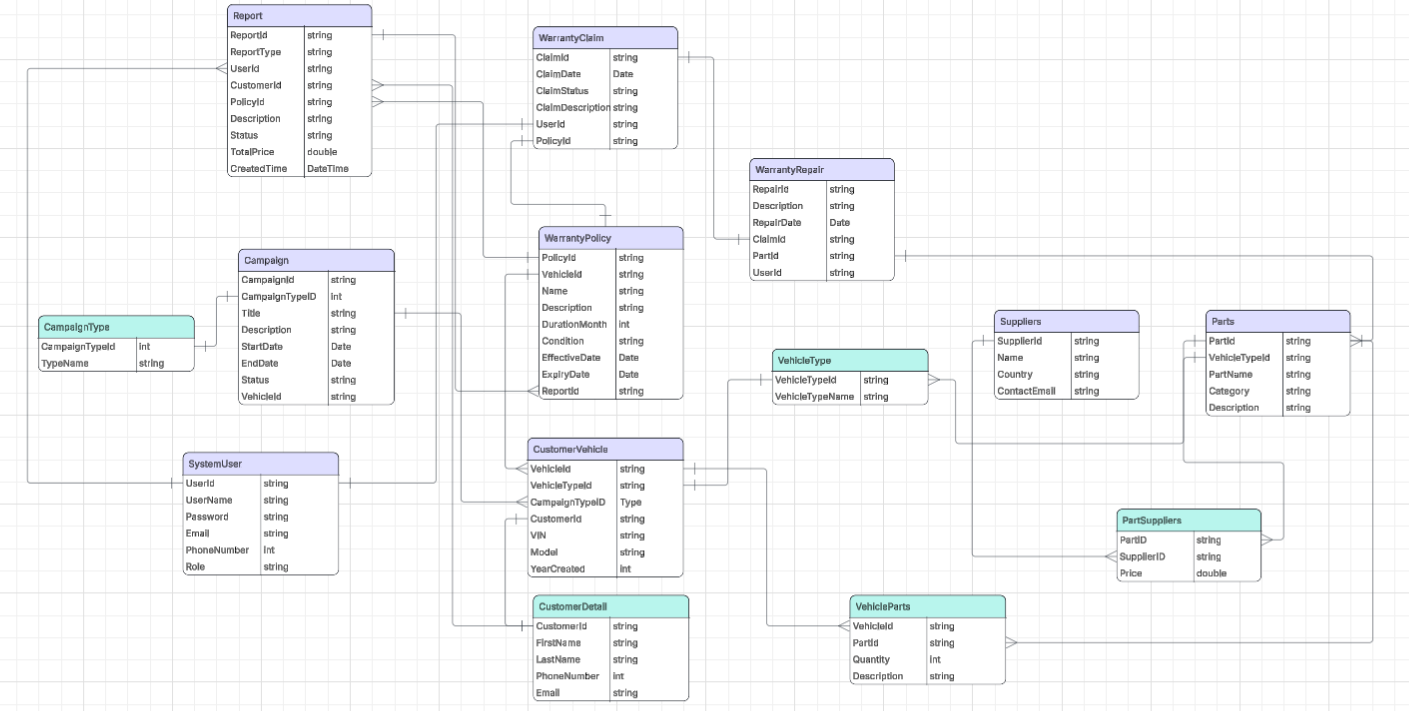
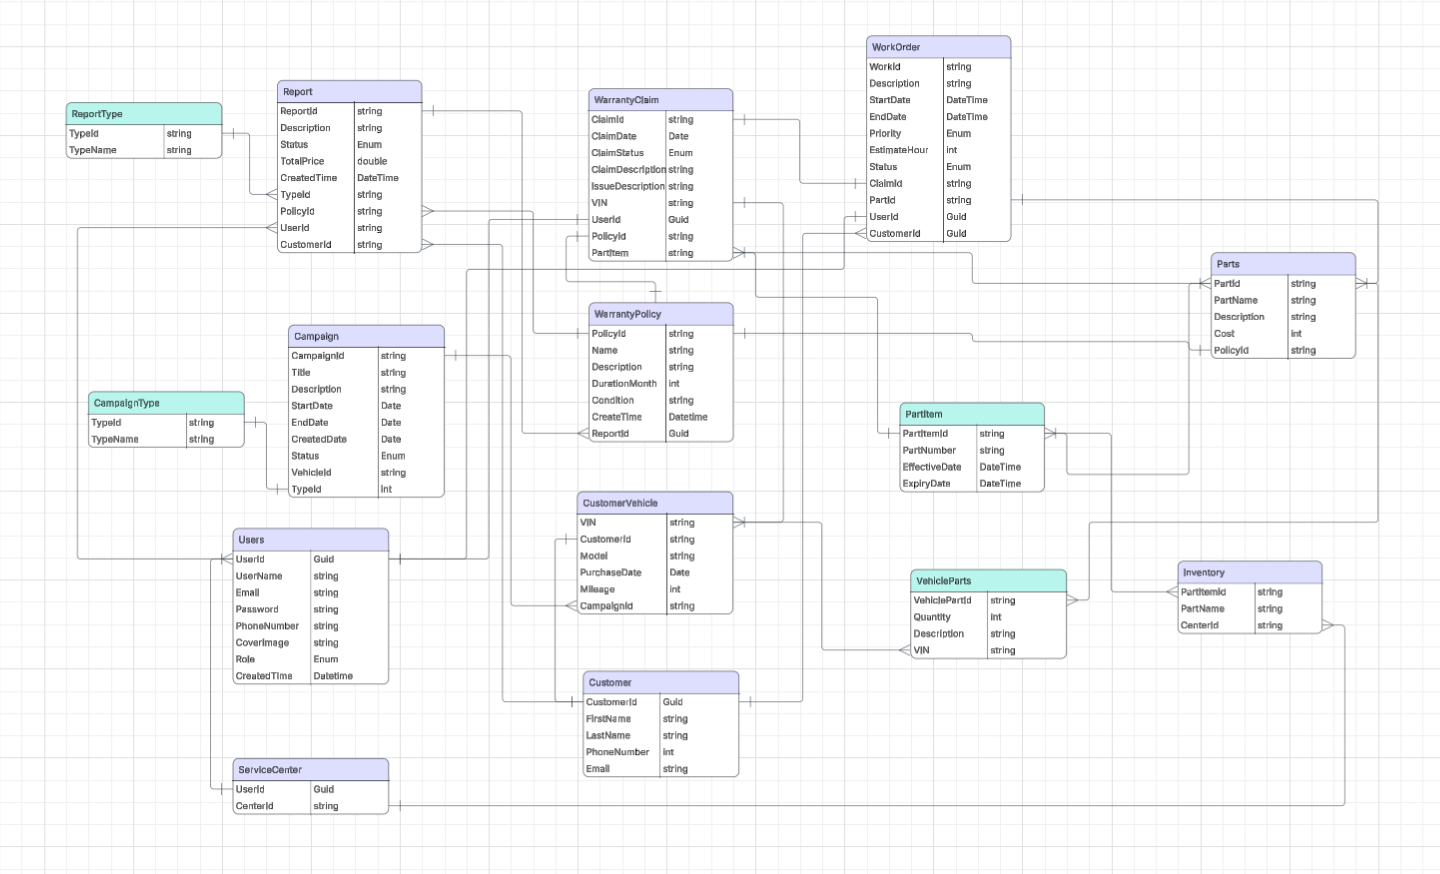
Update

diff --git a/profile/README.md b/profile/README.md
@@ -117,37 +117,38 @@ We will focus on the following set of requirements while designing:
 13. Sc Staff should be able to list all work reports by priority (High, Medium, Low).
 14. Sc Staff should be able to search work reports by orderID/VehicleName.
 15. Sc Staff should be able to see no result model if no search result found.
-16. Sc Staff should be able to view monthly revenue for the services in the center.
-17. Sc Staff should be able to list all work history/revenue by OrderId/VehicleName
-18. Sc Staff should be able to see warranty cost detail of an order.
-19. Sc Staff should be able to approved and export report cost of an completed work order.
-20. Sc Staff should be able to see their basic profile information.
+16. Sc Staff should be able to list all work history/revenue by OrderId/VehicleName
+17. Sc Staff should be able to see warranty cost detail of an order.
+18. Sc Staff should be able to approved and export report cost of an completed work order.
+19. Sc Staff should be able to see their basic profile information.
 
 ##### For EVM Staff:
 1. EVM Staff should be able to login into system.
 2. EVM Staff should be able to reset password by sending a request password change to admin.
+3. EVM Staff should be able to view monthly revenue for the services in the center.
 
 ## Flow Diagram
 <img src="./Resources/Main_Flow.png" alt="Main_Flow">
 <img src="./Resources/Detail_Flow.png" alt="Detail_Flow">
 
 ## Database Design
-Our system will have total 14 tables:
+Our system will have total 15 tables:
 
-+ SystemUser
-+ CustomerDetail
++ Users
++ Customer
 + CustomerVehicle
 + Campaign
 + CampaignType
++ ServiceCenter
 + WarrantyPolicy
 + WarrantyClaim
 + Report
-+ WarrantyRepair
-+ VehicleType
-+ Suppliers
-+ Parts
-+ PartSuppliers
++ ReportType
++ WorkOrder
 + VehicleParts
++ PartItem
++ Parts
++ Inventory
 <img src="./Resources/Database_Design.png" alt="Database_Design">
 
 ## CI/CD Flow
